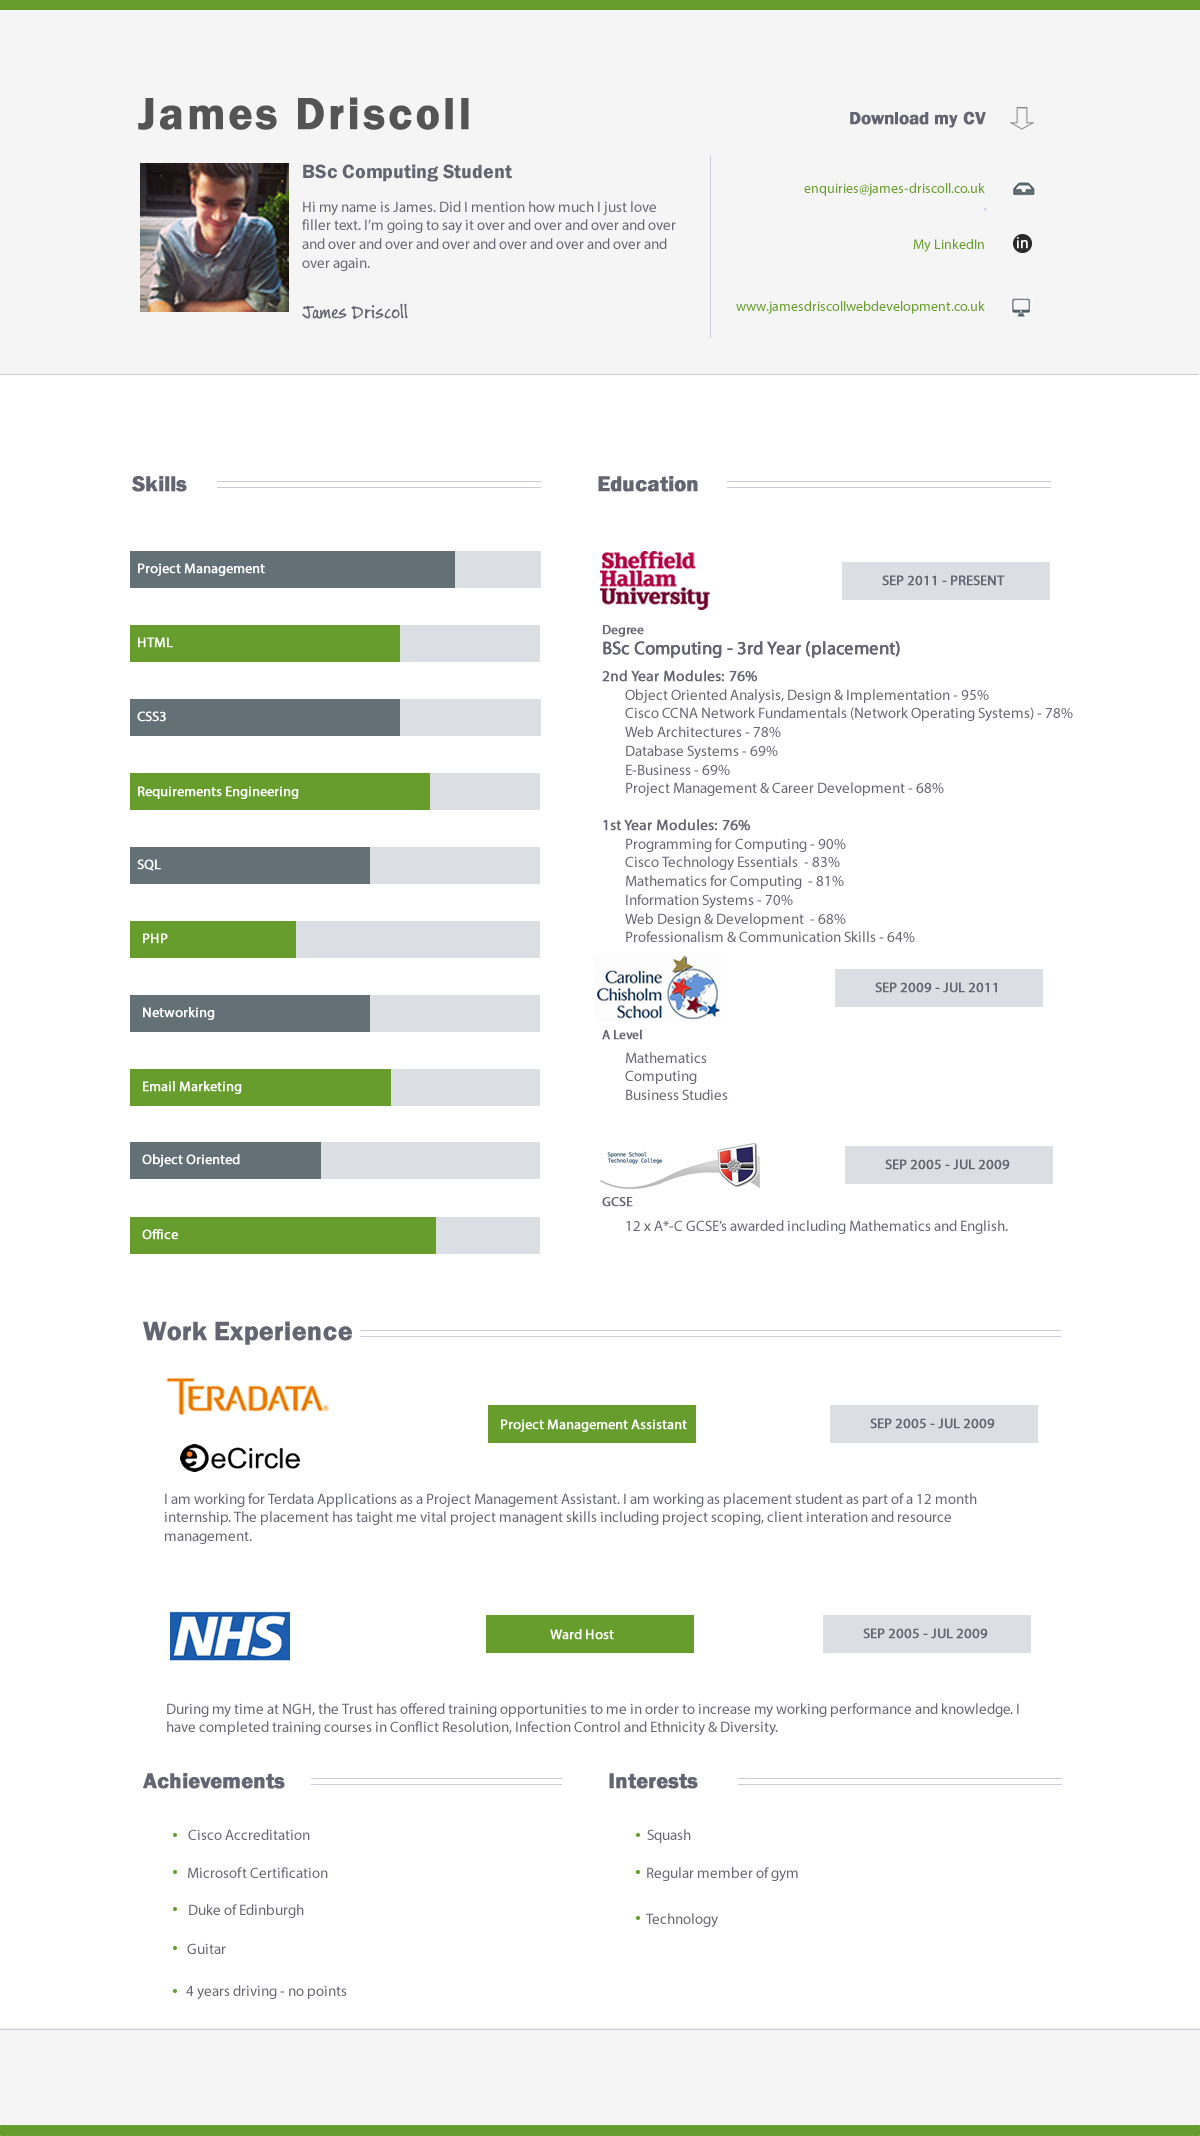
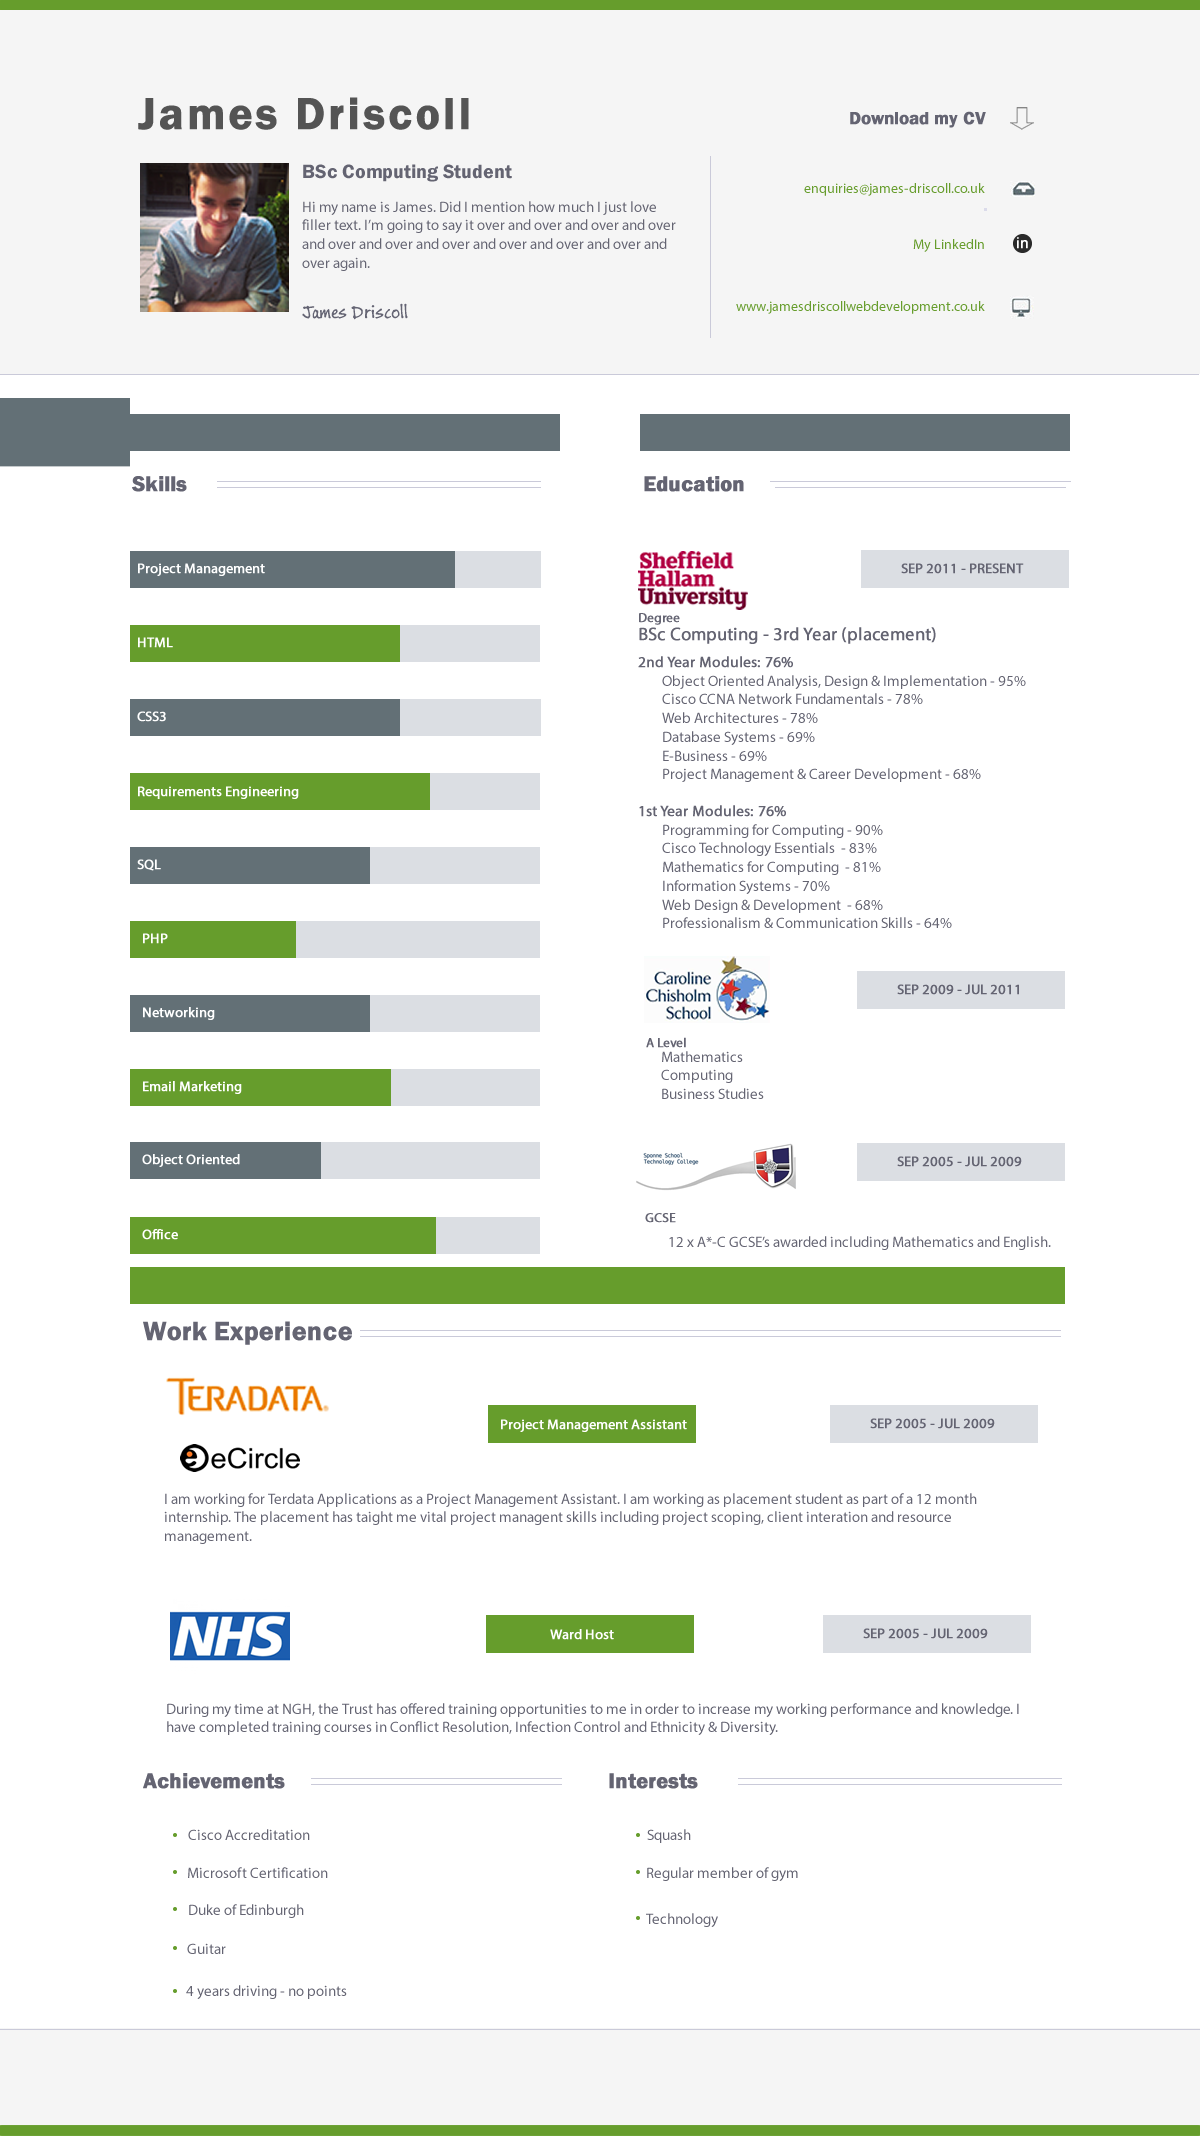
Implemented Education section. Further development to Skills section.

Changed region(s): [[0.0925, 0.1854, 0.8942, 0.618], [0.0, 0.1854, 0.4625, 0.2163], [0.8633, 0.4326, 0.8942, 0.4944]]

diff --git a/index.html b/index.html
@@ -47,8 +47,11 @@
 
             <!-- Content Begins Here -->
             <div class="container content">
-                <div class="sub-container skills">
-                    <h2 class="section-title">Skills</h2>
+                <div class="sub-container-half skills">
+                    <div class="section-title-half">
+                        <h2>Skills</h2>
+                        <div class="title-bar title-skills"></div>
+                    </div>
                         <ul class="skill-list">
                             <li class="whole-bar"><h3 class="bar grey skill-pm">Project Management</h3></li>
                             <li class="whole-bar"><h3 class="bar green skill-html">HTML</h3></li>
@@ -60,10 +63,61 @@
                             <li class="whole-bar"><h3 class="bar green skill-email">Email Marketing</h3></li>
                             <li class="whole-bar"><h3 class="bar grey skill-oo">Object Oriented</h3></li>
                             <li class="whole-bar"><h3 class="bar green skill-office">Office</h3></li>
-                        </ul>        
+                        </ul>
                 </div>
-                <div class="sub-container education">
-                    <h2 class="section-title">Education</h2>
+                <div class="sub-container-half education">
+                    <div class="section-title-half">
+                        <h2>Education</h2>
+                        <div class="title-bar title-education"></div>
+                    </div>
+                    <div class="degree">
+                        <img class="edu-logo" height="59" width="110" src="img/logo-shu.png" alt="Sheffield Hallam University logo">
+                        <div class="period">SEP 2011 - PRESENT</div>
+                        <strong class="level">Degree</strong>
+                        <h3 class="course"><span>BSc Computing - 3rd Year (placement)</span></h3>
+                        <span class="course-year">2nd Year Modules: <strong>76%</strong></span>
+                        <ul class="modules">
+                            <li>Object Oriented Analysis, Design & Implementation - <strong>95%</strong></li>
+                            <li>Cisco CCNA Network Fundamentals - <strong>78%</strong></li>
+                            <li>Web Architectures - <strong>78%</strong></li>
+                            <li>Database Systems - <strong>69%</strong></li>
+                            <li>E-Business - <strong>69%</strong></li>
+                            <li>Project Management & Career Development - <strong>68%</strong></li>
+                        </ul>
+                        <span class="course-year">1st Year Modules: <strong>76%</strong></span>
+                        <ul class="modules">
+                            <li>Programming for Computing - <strong>90%</strong></li>
+                            <li>Cisco Technology Essentials - <strong>83%</strong></li>
+                            <li>Mathematics for Computing - <strong>81%</strong></li>
+                            <li>Information Systems - <strong>70%</strong></li>
+                            <li>Web Design & Development  - <strong>68%</strong></li>
+                            <li>Professionalism & Communication Skills - <strong>64%</strong></li>
+                        </ul>
+                    </div>
+                    <div class="sixth">
+                        <img class="edu-logo" height="67" width="126" src="img/logo-ccs.png" alt="Caroline Chisholm School logo">   
+                        <div class="period">SEP 2009 - JUL 2011</div>
+                        <strong class="level">A Level</strong>
+                        <ul class="modules">
+                            <li>Mathematics</li>
+                            <li>Computing</li>
+                            <li>Business Studies</li>
+                        </ul>
+                    </div>
+                    <div class="secondary">
+                        <img class="edu-logo" height="49" width="160" src="img/logo-sponne.png" alt="Caroline Chisholm School logo">   
+                        <div class="period">SEP 2005 - JUL 2009</div>
+                        <strong class="level">GCSE</strong>
+                        <ul class="modules">
+                            <li>12 x <strong>A* - C</strong> GCSE’s awarded including Mathematics and English.</li>
+                        </ul>
+                    </div>
+                </div>
+                <div class="sub-container-full work">
+                    <div class="section-title-full">
+                        <h2>Work Experience</h2>
+                        <div class="title-bar title-work"></div>
+                    </div>
                 </div>
             </div>
             <!-- Content Ends Here -->

diff --git a/css/main.css b/css/main.css
@@ -187,36 +187,77 @@ textarea {
 /* ==========================================================================
    Content Items
    ========================================================================== */
+/* --Sub Container Items----------------------------------------------------- */
 .content {
     clear: both;
     height: 800px;
     font-family: "Lato" "Trebuchet MS";
 }
-.sub-container {
-    height: 100px;
-    width: 470px;
-}
-.sub-container .section-title {
+.sub-container-half {
+    width: 430px;
+    font-family: "Lato" "Trebuchet MS";
     color: #646472;
-    background: url("img/sub-container.png") no-repeat 81% 57%;
 }
-.content .skills {
+.sub-container-half .section-title-half {
+    width: 430px;
+    height: 50px;
+    position: relative;
+}
+.sub-container-half .section-title-half h2 {
+    color: #646472;
+    display: inline;
+}
+.title-bar {
+    display: inline;
+    position: absolute;
+    top: 15px;
+    height: 5px;
+    border-top: 1px solid #CACAD9;
+    border-bottom: 1px solid #CACAD9;
+}
+.sub-container-half .period {
+    float: right;
+    width: 208px;
+    height: 38px;
+    background-color: #DBDEE3;
+    color: #646472;
+    font-family: "Lato" "Trebuchet MS";
+    font-size: 14px;  
+    text-align: center;
+    line-height: 37px;  
+}
+.sub-container-full {
+    width: 935px;
+    clear: both;
+    padding-top: 30px; 
+    font-family: "Lato" "Trebuchet MS";
+    color: #646472;
+}
+.sub-container-full .section-title-full {
+    width: 935px;
+    height: 50px;
+    position: relative;
+}
+/* --Skills Items------------------------------------------------------------ */
+.skills {
     float: left;
 }
-.content .education {
-    float: right;
+.skills .title-skills {
+    width: 346px;
+    left: 84px;
 }
-.content .skills .skill-list {
+.skills .skill-list {
     height: 500px;
     list-style: none;
+    padding-left: 0px;
 }
-.content .skills .skill-list .whole-bar {
+.skills .skill-list .whole-bar {
     height: 37px;
-    width: 410px;
+    width: 430px;
     background-color: #DBDEE3;
     margin-bottom: 37px;
 }
-.content .skills .skill-list .bar {
+.skills .skill-list .bar {
     height: 37px;
     float: left;
     font-family: "Lato" "Trebuchet MS" "Arial";
@@ -227,46 +268,94 @@ textarea {
     line-height: 38px;
     padding-left: 10px;
 }
-.content .skills .skill-list .grey {
+.skills .skill-list .grey {
     background-color: #637076;
     height: 37px;
     width: 324px;
 }
-.content .skill-list .green {
+.skill-list .green {
     background-color: #669D2C;
     height: 37px;
     width: 324px;
 }
-.content .skills .skill-list .skill-pm {
-    width: 150px;
-}
-.content .skills .skill-list .skill-html {
-    width: 358px;
-}
-.content .skills .skill-list .skill-css {
+.skills .skill-list .skill-pm {
     width: 350px;
 }
-.content .skills .skill-list .skill-require {
+.skills .skill-list .skill-html {
+    width: 338px;
+}
+.skills .skill-list .skill-css {
+    width: 330px;
+}
+.skills .skill-list .skill-require {
     width: 250px;
 }
-.content .skills .skill-list .skill-sql {
+.skills .skill-list .skill-sql {
     width: 200px;
 }
-.content .skills .skill-list .skill-php {
+.skills .skill-list .skill-php {
     width: 180px;
 }
-.content .skills .skill-list .skill-net {
+.skills .skill-list .skill-net {
     width: 280px;
 }
-.content .skills .skill-list .skill-email {
+.skills .skill-list .skill-email {
     width: 380px;
 }
-.content .skills .skill-list .skill-oo {
+.skills .skill-list .skill-oo {
     width: 300px;
 }
-.content .skills .skill-list .skill-office {
+.skills .skill-list .skill-office {
     width: 350px;
 }
+
+/* --Education Items--------------------------------------------------------- */
+.education {
+    float: right;
+}
+.education .title-education {
+    width: 288px;
+    left: 142px;
+}
+.education .edu-logo {
+    float: left;
+}
+.education .level {
+    display: block;
+    clear: both;
+    font-size: 14px;
+    padding-top: 10px;
+}
+.education .course {
+    clear: both;
+    font-size: 13px;
+    font-weight: normal;
+    margin-top: 0px;  
+    margin-bottom: 8px;  
+}
+.education .course span {
+    font-size: 18px;
+}
+.education .modules {
+    list-style: none;
+    font-size: 15px;
+    margin-top: 0px;
+    padding-left: 20px;
+}
+.education .sixth {
+    margin-top: 35px;
+}
+.education .secondary {
+    margin-top: 35px;
+}
+
+/* --Work Experience Items--------------------------------------------------- */
+.work .title-work {
+    width: 710px;
+    left: 225px;
+}
+
+
 /* ==========================================================================
    Helper classes
    ========================================================================== */
